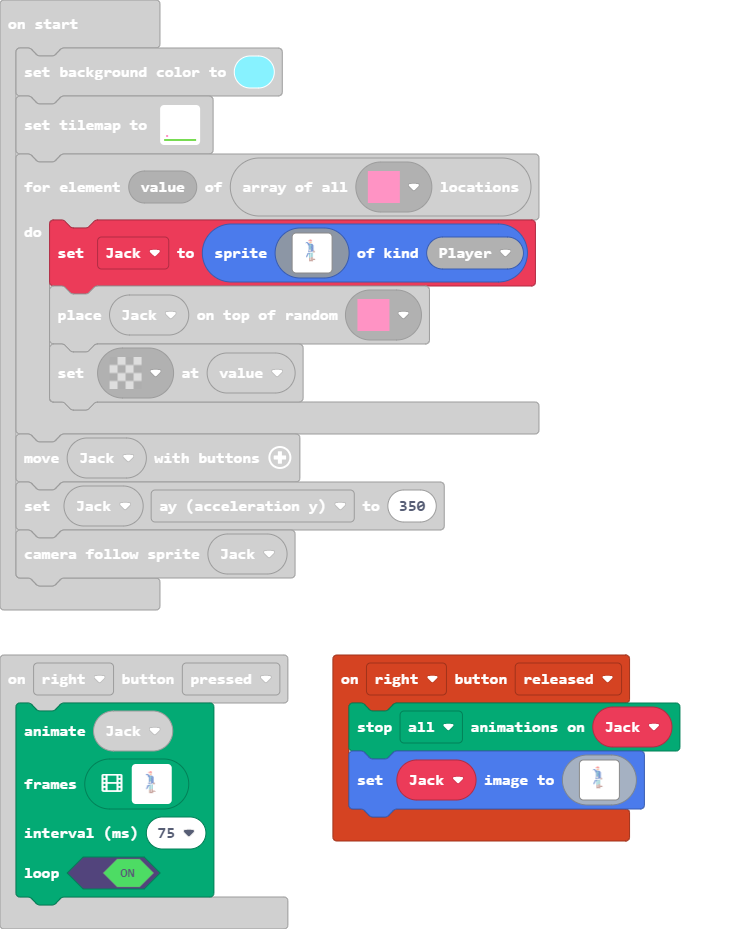
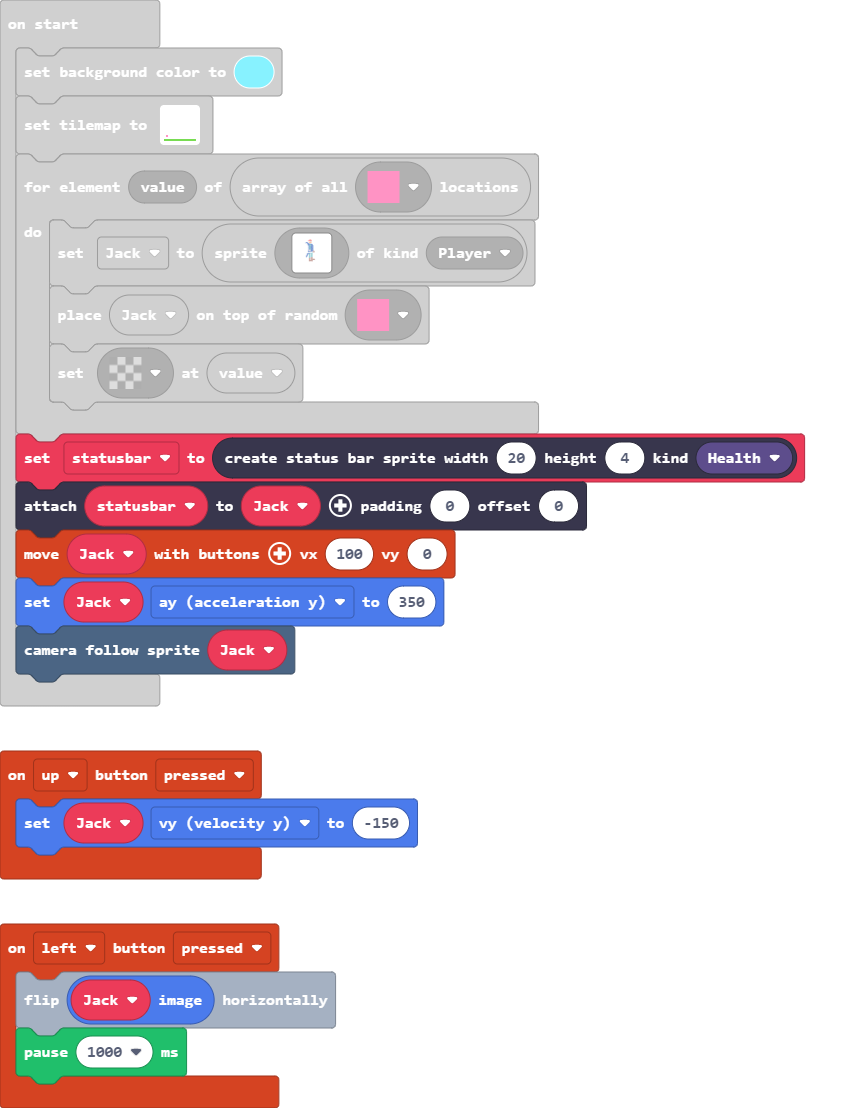
Update pxt.json, main.blocks, main.ts

diff --git a/main.ts b/main.ts
@@ -1,6 +1,9 @@
 namespace SpriteKind {
     export const object = SpriteKind.create()
 }
+controller.up.onEvent(ControllerButtonEvent.Pressed, function () {
+    Jack.vy = -150
+})
 controller.A.onEvent(ControllerButtonEvent.Pressed, function () {
     animation.runImageAnimation(
     Jack,
@@ -1226,6 +1229,10 @@ controller.A.onEvent(ControllerButtonEvent.Pressed, function () {
     )
     Jack.x += 10
 })
+controller.left.onEvent(ControllerButtonEvent.Pressed, function () {
+    Jack.image.flipX()
+    pause(1000)
+})
 controller.right.onEvent(ControllerButtonEvent.Released, function () {
     animation.stopAnimation(animation.AnimationTypes.All, Jack)
     Jack.setImage(img`
@@ -1871,6 +1878,8 @@ for (let value of tiles.getTilesByType(myTiles.tile1)) {
     tiles.placeOnRandomTile(Jack, myTiles.tile1)
     tiles.setTileAt(value, myTiles.transparency16)
 }
-controller.moveSprite(Jack)
+let statusbar = statusbars.create(20, 4, StatusBarKind.Health)
+statusbar.attachToSprite(Jack)
+controller.moveSprite(Jack, 100, 0)
 Jack.ay = 350
 scene.cameraFollowSprite(Jack)
